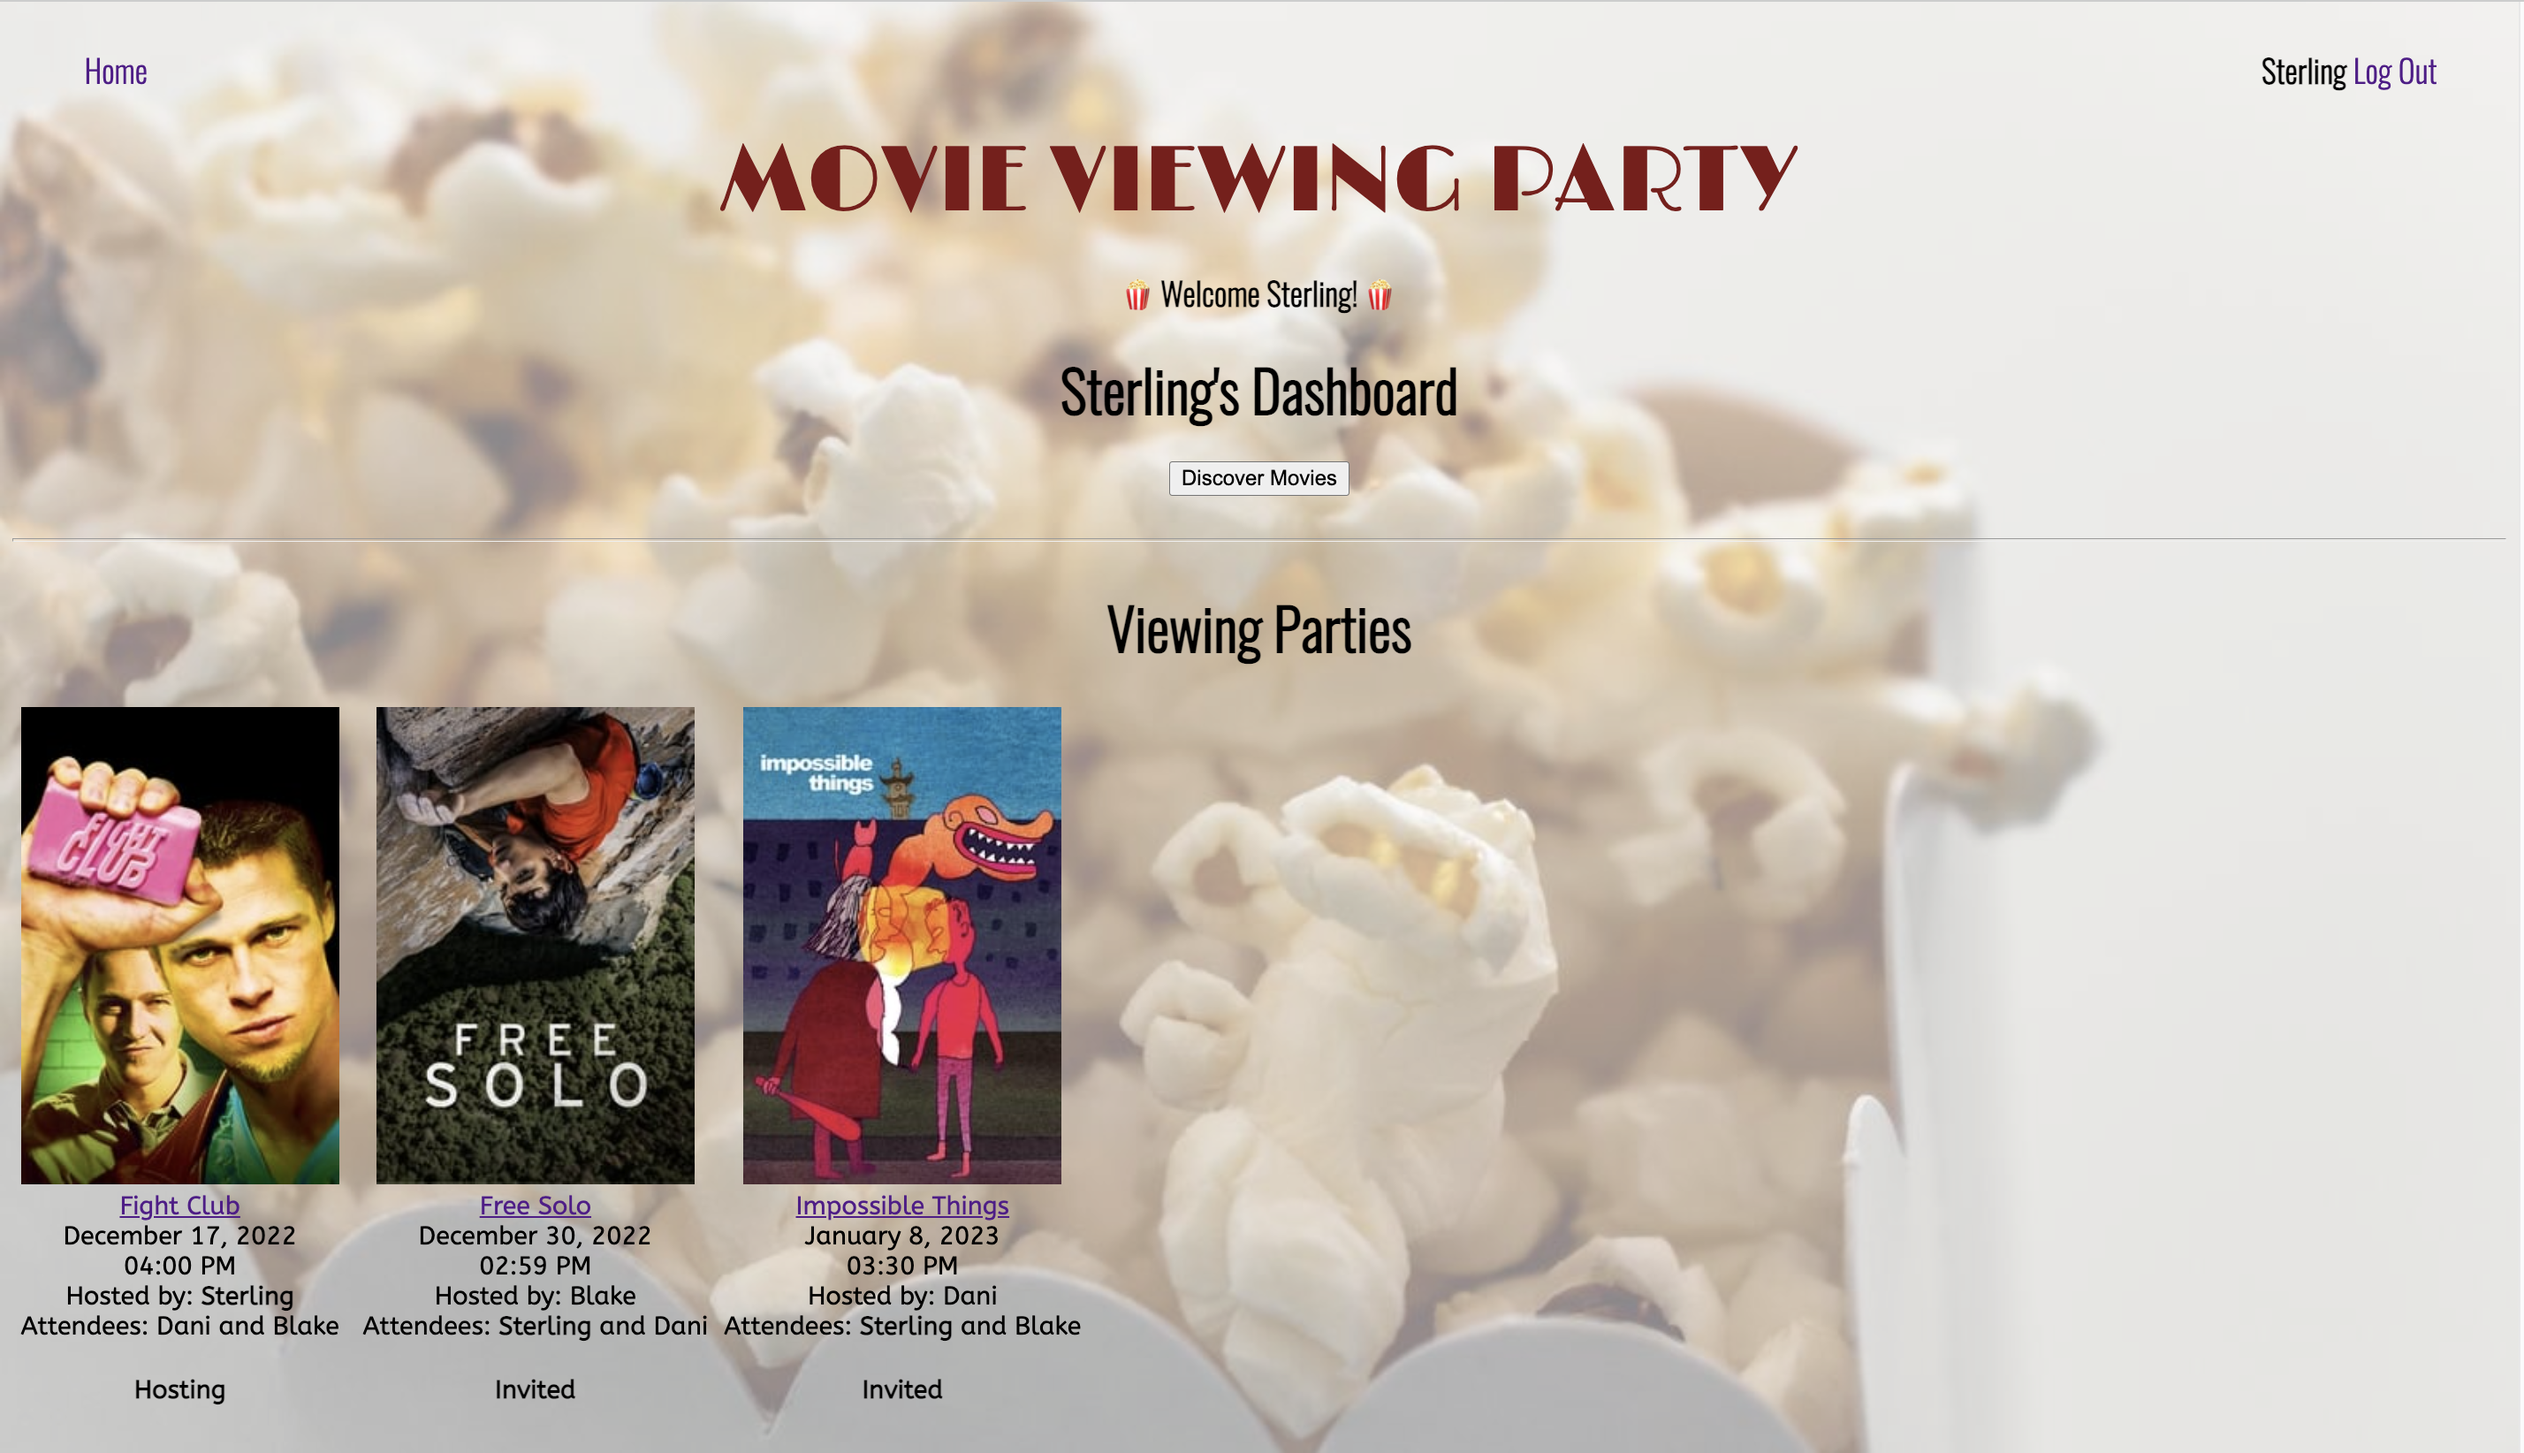
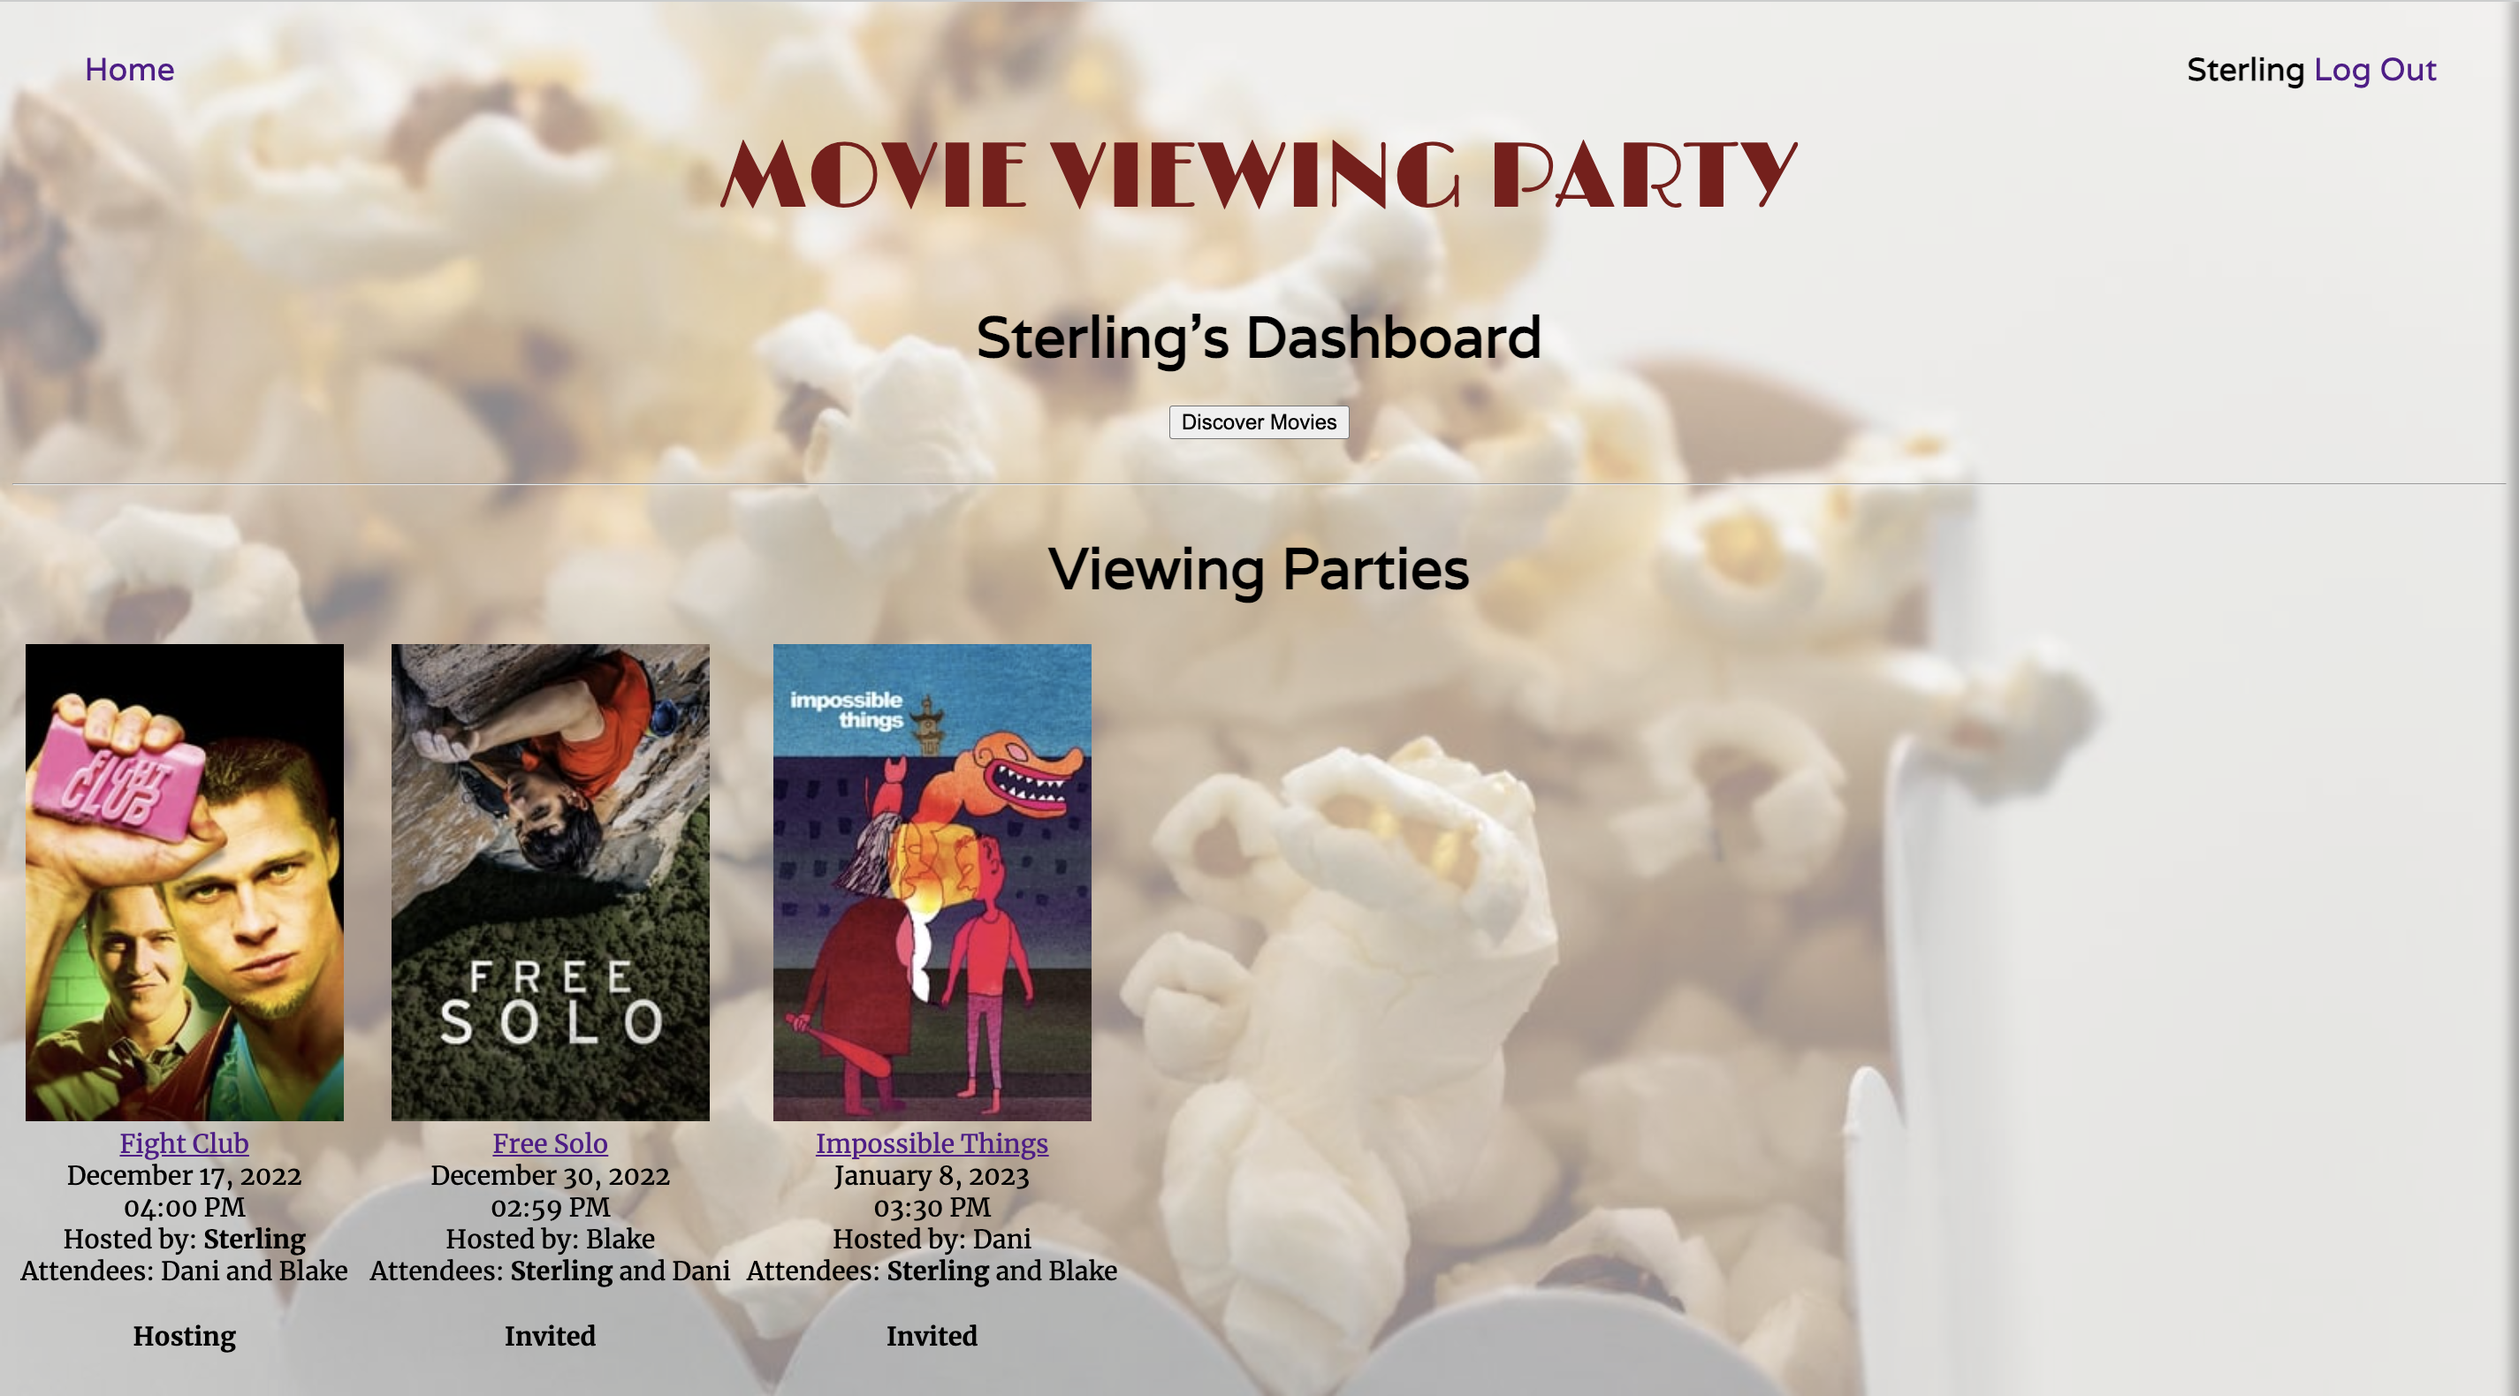
Update fonts and images

diff --git a/app/assets/stylesheets/application.css b/app/assets/stylesheets/application.css
@@ -15,7 +15,7 @@
  */
 
 body {
-  font-family: 'ABeeZee', sans-serif;
+  font-family: 'Merriweather', sans-serif;
 }
 
 ul {
@@ -26,7 +26,7 @@ ul {
 }
 
 h2 {
-  font-family: 'Oswald', sans-serif;
+  font-family: 'Varela', sans-serif;
   margin: auto;
   text-align: center;
   font-size: 36px;
@@ -34,7 +34,7 @@ h2 {
 }
 
 h3 {
-  font-family: 'Oswald', sans-serif;
+  font-family: 'Varela', sans-serif;
   margin: auto;
   text-align: center;
   font-size: 20px;
@@ -42,7 +42,7 @@ h3 {
 }
 
 p {
-  font-family: 'ABeeZee', sans-serif;
+  font-family: 'Merriweather', sans-serif;
   font-size: 20px
 }
 
@@ -53,11 +53,11 @@ table {
 }
 
 th {
-  font-family: 'ABeeZee', sans-serif;
+  font-family: 'Merriweather', sans-serif;
 }
 
 #new-user {
-  font-family: 'ABeeZee', sans-serif;
+  font-family: 'Merriweather', sans-serif;
   font-size: 18px;
   margin: auto;
   text-align: center;
@@ -66,7 +66,7 @@ th {
 }
 
 #login {
-  font-family: 'ABeeZee', sans-serif;
+  font-family: 'Merriweather', sans-serif;
   text-align: right;
   font-weight: bold;
   font-size: 20px;
@@ -101,7 +101,7 @@ th {
 
 #create-user a {
   text-align: center;
-  /* font-family: 'ABeeZee', sans-serif; */
+  /* font-family: 'Merriweather', sans-serif; */
   font-family: 'Limelight', cursive;
   text-decoration: none;
   font-size: 20px;

diff --git a/app/assets/stylesheets/navbar.css b/app/assets/stylesheets/navbar.css
@@ -18,7 +18,7 @@ ul {
 }
 
 ul li {
-  font-family: 'Oswald', sans-serif;
+  font-family: 'Varela', sans-serif;
   list-style: none;
   display: inline-block;
   justify-content: flex-end;
